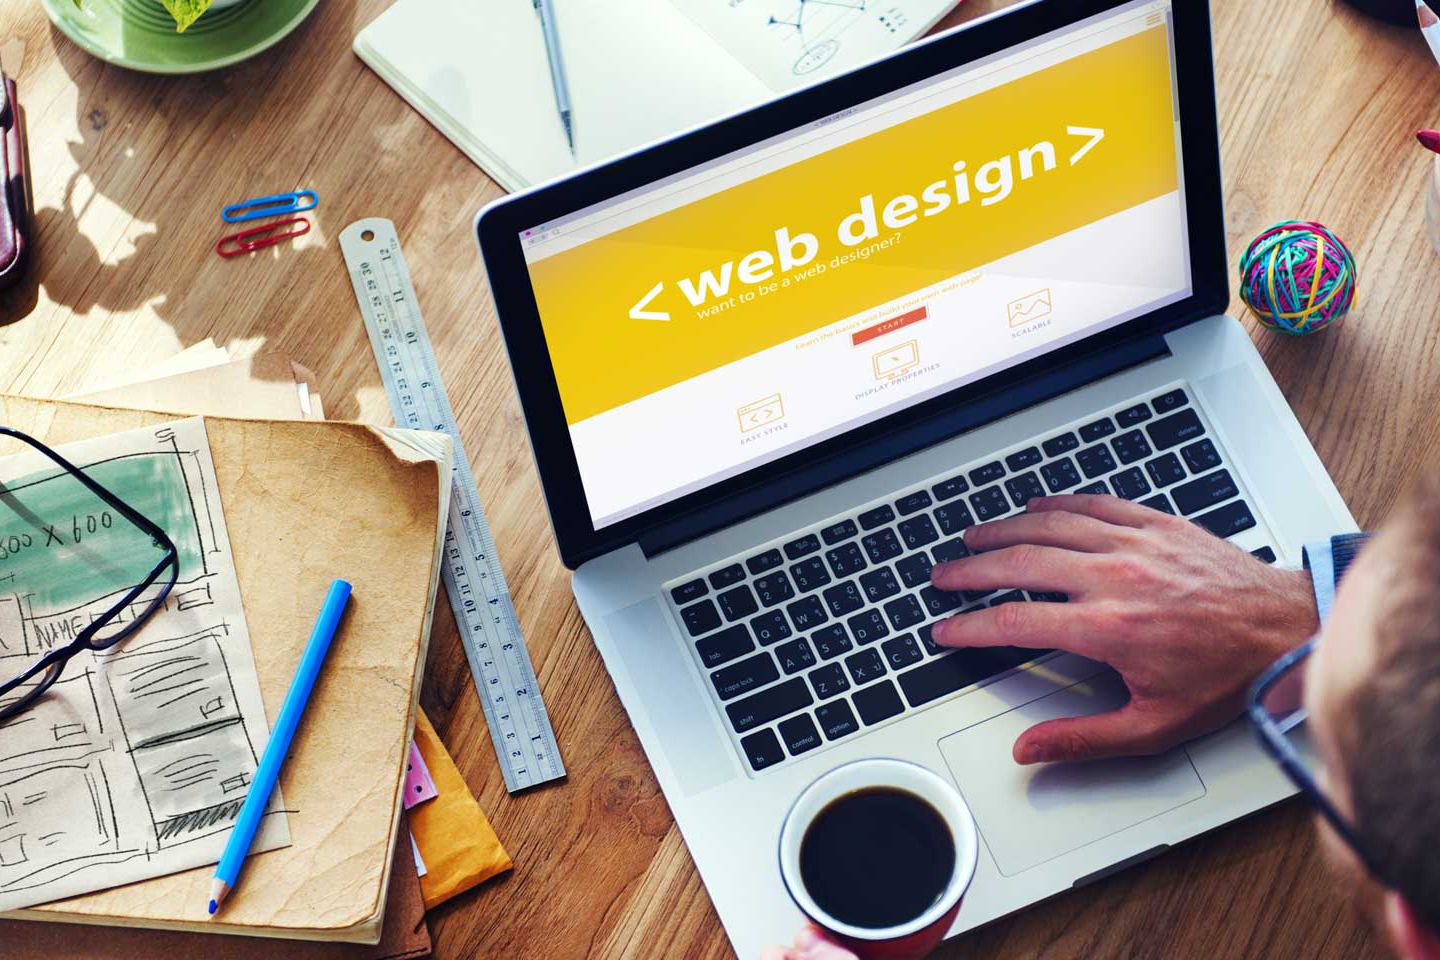
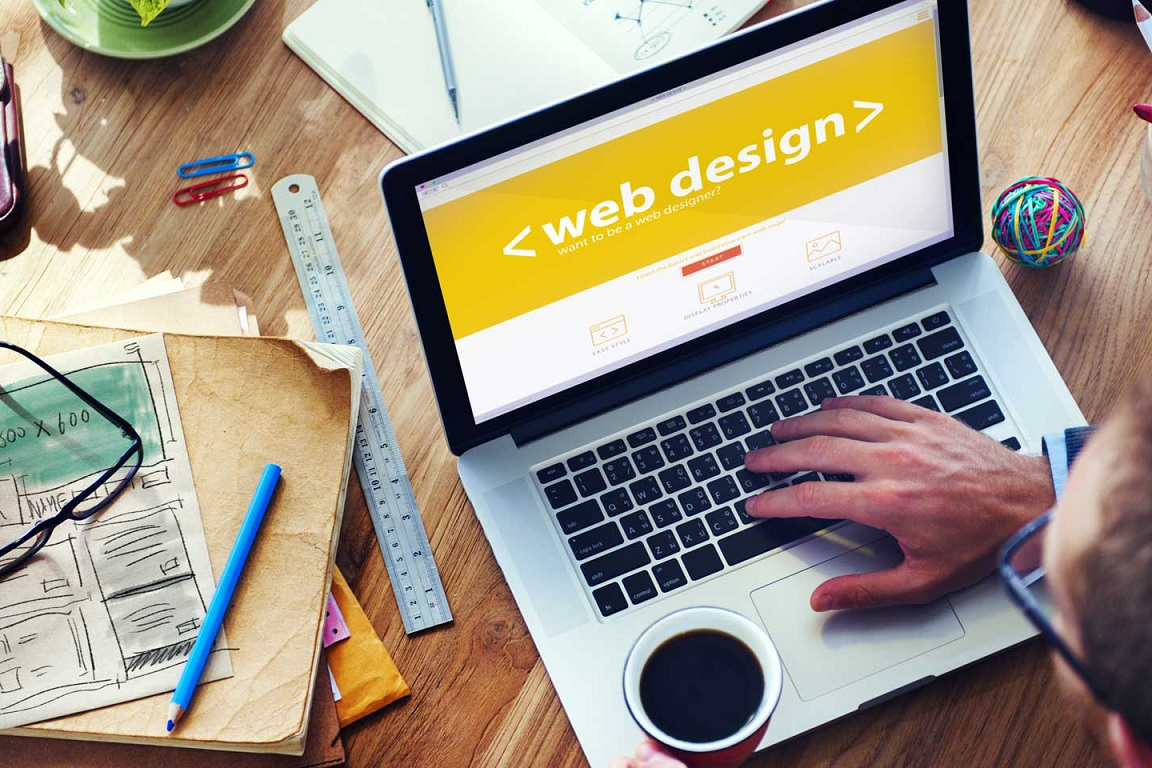
rezise pic

Changed region(s): [[0.8438, 0.2188, 0.9375, 0.3125]]

diff --git a/readme.md b/readme.md
@@ -1,0 +1,2 @@
+TO Open My Web Click This Link
+http://ToKu404.github.io
